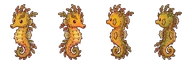
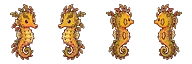
Scharfe Kartenbilder der seltenen Tiere, Herzregen pauschal, Storch aus der Kiste kommt zuverlässig, ohne Überraschungs-Flamingos
- Kisten-Karten: seltene Tiere als große Bilder aus den Vorlagen (tools/card-images.py), so scharf und groß wie die Symbole; Symbole auf den Karten größer
- Herzregen: sofort 100 Herzen statt 5 Minuten doppelte Herzen
- versprochener Storch/Ohrengeier: kommt nach wenigen Sekunden und landet; ein nur überfliegender Vogel wird nicht mehr zum seltenen
- der geschenkte Flamingo-Flug nach der Ankunft in einer Welt ist entfernt (es gibt die Geschenktafel im Tierpark)
- Fetzenfisch: Blickrichtung wie beim Seepferdchen, nachgeschärft (rare-static.py --scharf)

diff --git a/src/scenes/GardenScene.js b/src/scenes/GardenScene.js
@@ -131,7 +131,7 @@ import { VisitorCrowd } from '../visitors/Visitor.js';
 import { parkCap, AWAY_ICE_PER_VISITOR_MINUTE, AWAY_HEARTS_PER_VISITOR_MINUTE, BABY_APPEAL, BABY_BONUS, FULL_BONUS, HOUSE_VISITORS, appeal, maxVisitors, parkScore, splitHearts, penCount, isFull, releaseHearts } from '../world/visitors.js';
 import { EVENTS, babyFamily, babyPlan, eventState, eventsIn, formatTime, isActive, startEvent } from '../world/events.js';
 import { isEventsOpen, openEvents } from '../ui/eventsPanel.js';
-import LuckWorld from '../world/LuckWorld.js';
+import LuckWorld, { rarePromiseHere } from '../world/LuckWorld.js';
 import { CHARMS, MORE_ANIMALS, bonusActive, chestState, price } from '../world/luck.js';
 import { isCharmsOpen, openCharms } from '../ui/charms.js';
 import { isLuckPickerOpen } from '../ui/luckPicker.js';
@@ -479,10 +479,6 @@ const TUT_SHEEP = 2; // bei Mavis Schaf-Aufgabe grasen auf der Wiese immer so vi
 const TUT_SHEEP_R = 360; // ... so nah am Auto ...
 const TUT_SHEEP_CHECK = 2; // ... nachgeschaut wird alle paar Sekunden
 const PROMO_DELAY = 1200; // so lange nach der Ankunft im Tierpark, bis eine Tafel aufgeht (maybeShowPromo)
-// Überraschung (maybeSurprise): so lange nach der Ankunft in Wiese, Wald oder Savanne fliegen gratis Flamingos ein,
-// höchstens so oft
-const SURPRISE_DELAY = 60 * 1000;
-const SURPRISE_EVERY = 30 * 60 * 1000;
 let lastBookTab = 'animals'; // zuletzt offener Reiter im Tierbuch
 const QUEST_FOLD_KEY = 'my-little-zoo-quest-folded'; // Aufgaben-Karte eingeklappt (nur in diesem Browser)
 const AQUARIUM_TOUR = { tx: 3, ty: 16 }; // Ankunft vor der Aquariumtür (park2), wenn Mavi das Aquarium zeigt
@@ -513,6 +509,7 @@ const BALL_ROLL = [56, 44, 32]; // so weit rollt der Ball auf den Tiger zu (der 
 const BALL_KEEP = 20000; // so lange bleibt der Ball liegen, wenn der Tiger nicht mehr spielt (Millisekunden)
 const MAX_MACAQUES = 6; // so viele Japanmakaken baden höchstens in den wilden Quellen (sie verteilen sich)
 const FLAMINGO_EVERY = [6, 12]; // Sekunden zwischen zwei Flamingos (Reiher: 50–110)
+const PROMISE_WAIT = 6; // so lange (höchstens) bis der versprochene Storch bzw. Ohrengeier aus der Kiste heranfliegt
 const FLAMINGO_LAND = 0.6; // so oft landen sie (am Wasser)
 const RIDES = { meadow: 'ride_meadow', forest: 'ride_forest', savanna: 'ride_savanna', asia: 'ride_asia', jungle: 'ride_jungle', reef: 'ride_reef' }; // Dschungel: Maultier, Riff: Seabob
 // Die Welten draußen (für das Tierbuch und das Regal: wo es welche Tiere gibt)
@@ -1235,7 +1232,6 @@ export default class GardenScene extends Phaser.Scene {
     if (data.level) cam.fadeIn(300); // nach einem Levelwechsel sanft einblenden
     hideLoading(); // fertig aufgebaut (siehe showLoading beim Starten, Gebietswechsel und Ausbau)
     sessionLoaded(); // für die Statistik: Ladezeit (nur beim ersten Gebiet der Runde)
-    if (FLAMINGO_WORLDS.includes(LEVEL_ID)) this.time.delayedCall(SURPRISE_DELAY, () => this.maybeSurprise());
     if (data.fromWorld) {
       game.parkReturns++;
       this.time.delayedCall(PROMO_DELAY, () => this.maybeShowPromo());
@@ -2205,14 +2201,18 @@ export default class GardenScene extends Phaser.Scene {
       }
     }
     // Trockenzeit: ab und zu kreist ein Geier heran und landet auf einer kahlen Akazie
+    // ein versprochenes seltenes Tier aus der Kiste (Storch, Ohrengeier) lässt nicht lange auf sich warten
+    const promised = rarePromiseHere()?.species;
     if (LEVEL.vultures) {
       this.vultureTimer = (this.vultureTimer ?? Phaser.Math.FloatBetween(4, LEVEL.vultures.every[0])) - dt;
+      if (promised === 'vulture') this.vultureTimer = Math.min(this.vultureTimer, PROMISE_WAIT);
       if (this.vultureTimer <= 0) {
         this.vultureTimer = Phaser.Math.FloatBetween(...LEVEL.vultures.every);
         this.flyInVulture();
       }
     }
     this.heronTimer -= dt;
+    if (promised === 'heron') this.heronTimer = Math.min(this.heronTimer, PROMISE_WAIT);
     if (this.heronTimer > 0) return;
     const { every, landChance } = LEVEL.herons;
     this.heronTimer = Phaser.Math.FloatBetween(...every);
@@ -2223,7 +2223,8 @@ export default class GardenScene extends Phaser.Scene {
   flyIn(species, landChance) {
     const angle = Math.random() * Math.PI * 2;
     const from = this.mapEdgePoint(angle);
-    const land = Math.random() < landChance && NEAR_WATER.length > 0;
+    // der versprochene seltene Vogel aus der Kiste landet immer (sonst flöge er nur über die Karte)
+    const land = (rarePromiseHere()?.species === species || Math.random() < landChance) && NEAR_WATER.length > 0;
     let to;
     if (land) {
       const t = Phaser.Utils.Array.GetRandom(NEAR_WATER);
@@ -2982,7 +2983,6 @@ export default class GardenScene extends Phaser.Scene {
   // Bewunderungsherzen der Besucher aufs Konto; der Zähler oben hüpft kurz
   // source: Tierart (oder 'icecream') für die Statistik in der Übersicht; ohne Quelle (Cheat) zählt es dort nicht
   addHearts(n, source = null) {
-    if (n > 0 && bonusActive('heartRain')) n *= 2; // Bonus "Herzregen" aus einer Kiste
     game.hearts += n;
     if (source) game.heartsBy[source] = (game.heartsBy[source] ?? 0) + n;
     this.updateHud();
@@ -5056,18 +5056,6 @@ export default class GardenScene extends Phaser.Scene {
       },
       () => this.scene.resume(),
     );
-  }
-
-  // Überraschung: ab und zu fliegen in Wiese, Wald und Savanne gratis Flamingos ein (das Event Flamingo-Flug), damit
-  // man Events nebenbei entdeckt. Erst nach dem Tutorial, nur wenn der Flamingo-Flug gerade startbar ist
-  maybeSurprise() {
-    if (this.leaving || !storyAt('upgrade') || !groupsLoaded(EVENT_GROUPS.flamingo) || eventState('flamingo').state !== 'ready') return;
-    if (Date.now() - (game.surpriseAt ?? 0) < SURPRISE_EVERY) return;
-    game.surpriseAt = Date.now();
-    startEvent('flamingo', Date.now(), true);
-    countPromo('surprise');
-    this.updateEventBanner();
-    this.showToast(tr('🦩 Überraschung! Ein Flamingo-Schwarm zieht 5 Minuten lang vorbei – fang einen für deinen Tierpark! Weitere Events startest du am Computer im Haupthaus.', '🦩 Surprise! A flock of flamingos is passing by for 5 minutes – catch one for your zoo! You can start more events at the computer in the main building.'));
   }
 
   // Spielstand speichern (Autosave, Menü). Während eines Levelwechsels nicht: der ist dann schon gespeichert.

diff --git a/src/world/LuckWorld.js b/src/world/LuckWorld.js
@@ -13,8 +13,8 @@ import { openLuckPicker } from '../ui/luckPicker.js';
 import { EVENT_GROUPS, groupsLoaded } from '../scenes/BootScene.js';
 import { GHOST_ALPHA, GHOST_DEPTH, isCovered, outlineTexture } from './Boat.js';
 import {
-  BONI, CHARMS, CHEST_COUNT, CHEST_LEVELS, LEVEL_EVENT, TIERS,
-  activeBoni, bonusActive, campfireLeft, cardCount, chestOpened, chestState, dropBoniElsewhere, giveCharm, hasCharm,
+  BONI, CHARMS, CHEST_COUNT, CHEST_LEVELS, HEART_RAIN, LEVEL_EVENT, TIERS,
+  activeBoni, bonusActive, campfireLeft, cardCount, chestOpened, chestState, dropBoniElsewhere, giveCharm, hasCharm, iconImg,
   luckState, ownsCharm, rerollCost, rollCards, startBonus,
 } from './luck.js';
 
@@ -41,6 +41,14 @@ const CALLED = {
   iguana: { when: (l) => l.waterfallSun, at: (l) => box(l.waterfallSun), hint: tr('Sonnt sich bald am Wasserfall!', 'Will soon be sunbathing at the waterfall!') },
   gorilla: { when: (l) => l.gorillas, at: (l) => box(l.gorillas), hint: tr('Kommt bald auf die Lichtung!', 'Will soon come to the clearing!') },
 };
+// seltene Varianten mit großem Kartenbild public/assets/card_<skin>.png (tools/card-images.py): auf der Karte so scharf
+// wie die Glücksbringer-Bilder (die Spiel-Sprites wären dort 3- bis 4-fach vergrößert)
+const CARD_SKINS = new Set([
+  'cat2', 'stag', 'antelope2', 'croc_albino', 'tiger2', 'peacock2', 'orangutan2', 'frog2', 'jellyfish2', 'wolf2', 'lion2',
+  'iguana2', 'panther', 'macaw2', 'snake2', 'tarantula2', 'ray2', 'gibbon', 'octopus2', 'sheep2', 'heron2', 'fox2',
+  'squirrel2', 'beaver2', 'macaque2', 'anteater2', 'meerkat2', 'vulture2', 'gorilla2', 'hyena2', 'hippo2', 'panda2',
+  'penguin2', 'seal2', 'seahorse2', 'toucan2', 'turtle2', 'warthog2',
+]);
 const CALLED_SHARE = 0.1; // so oft kommt ihre Karte (wie eine seltene Art im Spawn-Pool)
 
 // Versprechen für dieses Gebiet (seltenes Tier aus der Kiste, das erst noch kommen muss), oder null
@@ -165,14 +173,17 @@ export default class Luck {
     if (c.kind === 'rare') {
       const info = skinInfo(c.species, c.skin);
       const tier = TIERS[c.tier];
-      // eigenes Bild der seltenen Variante (z. B. Hirsch statt Reh); Platzhalter: das Bild der Art, eingefärbt wie im Spiel
-      const pic = info?.css ? `<span style="filter:${info.css}">${safeIcon(c.species)}</span>` : safeIcon(c.skin, c.species);
+      // großes Kartenbild der seltenen Variante (tools/card-images.py); sonst das Spielbild (z. B. Schoko-Giraffe),
+      // Platzhalter: das Bild der Art, eingefärbt wie im Spiel
+      const pic = CARD_SKINS.has(c.skin)
+        ? iconImg(`card_${c.skin}`).replace('class="luck-img"', 'class="luck-img luck-animal"')
+        : info?.css ? `<span style="filter:${info.css}">${safeIcon(c.species)}</span>` : safeIcon(c.skin, c.species);
       return { icon: `${pic}<span class="luck-spark">✨</span>`, title: capital(info?.name ?? c.species), text: tr('Taucht garantiert hier im Gebiet auf!', 'Guaranteed to show up in this area!'), color: tier.color, tag: tier.name };
     }
     if (c.kind === 'bonus') {
       const b = BONI[c.id];
       const minutes = hasCharm('hourglass') ? 8 : 5;
-      return { icon: b.icon, title: b.name, text: b.text, color: CARD_COLOR.bonus, tag: c.id === 'eventCall' ? tr('sofort', 'right now') : tr(`${minutes} Minuten`, `${minutes} minutes`) };
+      return { icon: b.icon, title: b.name, text: b.text, color: CARD_COLOR.bonus, tag: b.instant ? tr('sofort', 'right now') : tr(`${minutes} Minuten`, `${minutes} minutes`) };
     }
     const ch = CHARMS[c.id];
     return { icon: ch.icon, title: ch.name, text: ch.text, color: CARD_COLOR.charm, tag: tr('Glücksbringer', 'Lucky charm') };
@@ -202,7 +213,8 @@ export default class Luck {
     const p = s.player;
     if (CALLED[species]) {
       // ist gerade eins da, wird es selten; sonst das nächste, das kommt
-      const wild = s.animals.find((a) => a.species === species && a.state === 'wild' && !a.skin);
+      // (keinen Vogel, der nur über die Karte fliegt oder schon wieder abfliegt: der wäre gleich weg)
+      const wild = s.animals.find((a) => a.species === species && a.state === 'wild' && !a.skin && a.land !== false && a.phase !== 'leaving');
       if (wild) {
         wild.skin = skin;
         wild.life = Math.max(wild.life ?? 0, RARE_LIFE);
@@ -247,6 +259,12 @@ export default class Luck {
       const groups = EVENT_GROUPS[ev] ?? [];
       if (!groupsLoaded(groups)) s.afterGroupsLoaded(groups, go);
       else go();
+      return;
+    }
+    if (id === 'heartRain') {
+      s.addHearts(HEART_RAIN);
+      s.showToast(`${b.icon} <b>${b.name}!</b> ${tr(`<span class="heart">♥</span> ${HEART_RAIN} für dich.`, `<span class="heart">♥</span> ${HEART_RAIN} for you.`)}`);
+      s.updateHud();
       return;
     }
     startBonus(id);

diff --git a/src/world/luck.js b/src/world/luck.js
@@ -30,9 +30,11 @@ export const BONI = {
   toolsEverywhere: { name: tr('Werkzeug überall', 'Tools Everywhere'), text: tr('Werkzeug wechseln, wo du willst (Q bzw. Werkzeug-Knopf).', 'Switch tools anywhere (Q or the tool button).') },
   stands: { name: tr('2 Hochstände', '2 Lookouts'), text: tr('Zwei Hochstände – von oben siehst du alles.', 'Two lookouts – see everything from above.'), available: (l) => l !== 'reef' },
   bigCatch: { name: tr('Großes Lasso', 'Big Lasso'), text: tr('Lasso und Kescher fangen viel größer – das Lasso 2 Tiere auf einmal.', 'Lasso and net catch much wider – the lasso 2 animals at once.') },
-  heartRain: { name: tr('Herzregen', 'Heart Rain'), text: tr('Doppelte Herzen.', 'Double hearts.') },
-  eventCall: { name: tr('Event-Ruf', 'Event Call'), text: tr('Das Event dieses Gebiets startet sofort – gratis.', 'This area’s event starts right away – for free.'), available: (l) => !!LEVEL_EVENT[l] },
+  // instant: wirkt sofort einmal (kein 5-Minuten-Bonus)
+  heartRain: { name: tr('Herzregen', 'Heart Rain'), text: tr('Sofort 100 Herzen.', '100 hearts right away.'), instant: true }, // 100: HEART_RAIN
+  eventCall: { name: tr('Event-Ruf', 'Event Call'), text: tr('Das Event dieses Gebiets startet sofort – gratis.', 'This area’s event starts right away – for free.'), available: (l) => !!LEVEL_EVENT[l], instant: true },
 };
+export const HEART_RAIN = 100; // so viele Herzen bringt der Herzregen (pauschal, unabhängig davon, wie lange man im Gebiet bleibt)
 for (const b of Object.values(BONI)) b.icon = iconImg('boost');
 const BONUS_MS = 5 * MINUTE;
 const HOURGLASS_MS = 8 * MINUTE;

diff --git a/index.html b/index.html
@@ -642,6 +642,10 @@
       /* Bilder der Glücksbringer und Boni (src/world/luck.js iconImg): so groß wie ein Emoji an derselben Stelle */
       .luck-img { height: 1.2em; width: auto; max-width: 1.4em; object-fit: contain; vertical-align: -0.25em; pointer-events: none; }
       .charm-ghost .luck-img { height: 1em; max-width: 1.2em; }
+      /* auf den Kisten-Karten etwa so groß wie das Tierbild der seltenen Tiere (3em, mit Rand im Bild) */
+      .luck-card .luck-img { height: 2.4em; max-width: 2.6em; }
+      /* Kartenbild eines seltenen Tiers (eng zugeschnitten, ohne Rand): so hoch wie die Symbole, breite Tiere dürfen breiter sein */
+      .luck-card .luck-img.luck-animal { max-width: 3.2em; }
       @media (max-width: 900px), (max-height: 500px) {
         .luck-box .luck-cards { grid-template-columns: repeat(var(--n, 3), minmax(0, 130px)); gap: 8px; }
         .luck-card { min-height: 0; padding: 6px 5px; } .luck-card b { font-size: 14px; } .luck-card small { font-size: 12px; }

diff --git a/src/state.js b/src/state.js
@@ -27,7 +27,6 @@ export const game = {
   tipsSeen: [], // Tierarten, zu denen der Fang-Tipp nach Fehlversuchen schon von selbst kam
   parkReturns: 0, // so oft ist man aus einer Welt zurück in den Tierpark gekommen (für die Tafeln in promos)
   promos: [], // schon gezeigte Tafeln im Tierpark: 'gift' (geschenktes Event); 'worlds' (die anderen Welten) nur in älteren Spielständen
-  surpriseAt: 0, // wann zuletzt ein Überraschungs-Flamingo-Flug kam (siehe maybeSurprise in GardenScene)
   bookNew: [], // Neues im Tierbuch (roter Punkt am Knopf, leuchtet beim Öffnen auf): 'caught:fox', 'seen:fox', 'quest:sheep'
   chests: {}, // Kisten je Welt: { meadow: { spots: [{ tx, ty }], readyAt } } (siehe src/world/luck.js)
   charms: { owned: [], equipped: [] }, // Glücksbringer: gefundene und angelegte (höchstens 2)
@@ -69,5 +68,4 @@ export function resetGame() {
   game.bookNew = [];
   game.parkReturns = 0;
   game.promos = [];
-  game.surpriseAt = 0;
 }

diff --git a/src/sessions.js b/src/sessions.js
@@ -69,8 +69,8 @@ export function countEvent(id) {
   if (session) count(session.events, id);
 }
 
-// Tafeln im Tierpark: 'gift' gezeigt, 'giftbabies'/'giftride' gewählt; 'worlds' gezeigt, 'worldsmap' bis zum Ende durchgeblättert;
-// 'surprise': Überraschungs-Flamingos in einer Welt
+// Tafeln im Tierpark: 'gift' gezeigt, 'giftbabies'/'giftride' gewählt; 'worlds' gezeigt, 'worldsmap' bis zum Ende durchgeblättert
+// (früher auch 'surprise': Überraschungs-Flamingos in einer Welt, gibt es nicht mehr)
 export function countPromo(id) {
   if (session) count(session.promos, id);
 }

diff --git a/tools/card-images.py b/tools/card-images.py
@@ -1,0 +1,63 @@
+"""Bilder der seltenen Tiere für die Kisten-Karten: die Vorderansicht aus der großen Vorlage, freigestellt und auf
+SIZE Pixel verkleinert (public/assets/card_<skin>.png). Die Spiel-Sprites sind dafür zu klein (auf der Karte 3- bis
+4-fach vergrößert, unscharf neben den Glücksbringer-Bildern).
+Aufruf: python tools/card-images.py <Ordner mit freigestellten Ansichten>   (danach python tools/make-webp.py .)
+Die Ansichten (Name_v0.png ...) entstehen mit tools/cutout-views.py ... alle (siehe tools/rare-static.py); Vorlagen, die
+schon freigestellt sind (PNG mit Transparenz), nimmt das Skript direkt: dort die Ansicht oben links.
+Neue Kartenbilder auch in CARD_SKINS in src/world/LuckWorld.js eintragen."""
+import sys
+import numpy as np
+from PIL import Image, ImageDraw, ImageFilter
+
+SIZE = 176
+V = sys.argv[1]
+
+# Skin: 'view:<Datei im Ansichten-Ordner ohne .png>' oder 'png:<freigestellte Vorlage in Sprites/>'
+CARDS = {
+    'cat2': 'png:Katze2 neu.png', 'stag': 'png:Hirsch.png', 'antelope2': 'png:Antilope2.png', 'croc_albino': 'png:Krokodil2.png',
+    'tiger2': 'png:Tiger2.png', 'peacock2': 'png:Pfau2.png', 'orangutan2': 'png:Orang Utan2.png', 'frog2': 'png:Frosch2.png',
+    'jellyfish2': 'png:Qualle2.png', 'wolf2': 'png:Wolf2.png', 'lion2': 'png:Löwe2.png', 'iguana2': 'png:Leguan2.png',
+    'panther': 'png:Jaguar2.png', 'macaw2': 'png:Ara2.png', 'snake2': 'png:Schlange2.png', 'tarantula2': 'png:Vogelspinne2.png',
+    'ray2': 'png:Rochen2.png', 'gibbon': 'png:Gibbon.png', 'octopus2': 'png:Krake2.png',
+    'sheep2': 'view:sheep2_v0', 'heron2': 'view:heron2_v0', 'fox2': 'view:fox2_v0', 'squirrel2': 'view:squirrel2_v0',
+    'beaver2': 'view:beaver2_v0', 'macaque2': 'view:macaque2_v0',
+    'anteater2': 'view:anteater2_v0', 'meerkat2': 'view:meerkat2_v0', 'vulture2': 'view:vulture2_norock_v0',
+    'gorilla2': 'view:gorilla2_v0', 'hyena2': 'view:hyena2_v0', 'hippo2': 'view:hippo2_v0', 'panda2': 'view:panda2_v0',
+    'penguin2': 'view:penguin2_v0', 'seal2': 'view:seal2_v0', 'seahorse2': 'view:seahorse2_v1', 'toucan2': 'view:toucan2_v0',
+    'turtle2': 'view:turtle2_v0', 'warthog2': 'view:warthog2_v0',
+}
+
+
+def first_view(path):
+    """aus einer freigestellten Vorlage mit mehreren Ansichten die oben links (große Teile, kleine Krümel weg)"""
+    im = Image.open(path).convert('RGBA')
+    solid = Image.fromarray(((np.array(im)[..., 3] > 128) * 255).astype(np.uint8)).filter(ImageFilter.MinFilter(5)).filter(ImageFilter.MaxFilter(5)).copy()
+    arr = np.array(solid)
+    parts, n = [], 1
+    while n < 250:
+        ys, xs = np.where(arr == 255)
+        if not len(xs): break
+        ImageDraw.floodfill(solid, (int(xs[0]), int(ys[0])), n)
+        arr = np.array(solid)
+        m = arr == n
+        ys, xs = np.where(m)
+        parts.append((m.sum(), xs.mean(), ys.mean(), m))
+        n += 1
+    big = max(p[0] for p in parts)
+    views = [p for p in parts if p[0] >= big * 0.25]
+    _, _, _, mask = min(views, key=lambda p: p[1] + p[2])  # oben links
+    keep = np.array(Image.fromarray((mask * 255).astype(np.uint8)).filter(ImageFilter.MaxFilter(9))) > 0
+    a = np.array(im)
+    a[~keep, 3] = 0
+    out = Image.fromarray(a, 'RGBA')
+    return out.crop(out.getchannel('A').getbbox())
+
+
+for skin, src in CARDS.items():
+    kind, name = src.split(':', 1)
+    img = first_view(f'Sprites/{name}') if kind == 'png' else Image.open(f'{V}/{name}.png').convert('RGBA')
+    img = img.crop(img.getchannel('A').getbbox())
+    k = SIZE / max(img.size)
+    img = img.resize((max(1, round(img.width * k)), max(1, round(img.height * k))), Image.LANCZOS)
+    img.save(f'public/assets/card_{skin}.png')
+    print(f'card_{skin}.png', img.size)

diff --git a/tools/rare-static.py b/tools/rare-static.py
@@ -22,8 +22,12 @@ fox2_sleep: aus fox_sleep umgefärbt (tools/rare-static.py --fox-sleep); beaver2
 gespiegelten Nutria-Vorderansicht (SCALE 0.115)."""
 import sys
 import numpy as np
-from PIL import Image, ImageOps
+from PIL import Image, ImageFilter, ImageOps
 
+# --scharf (vor allen anderen Angaben): nach dem Verkleinern nachschärfen, für feine Vorlagen in kleinen Bildern
+# (Fetzenfisch, 48 x 64), die sonst neben der Pixel-Art der Grundart verschwommen wirken
+SHARP = sys.argv[1] == '--scharf'
+if SHARP: del sys.argv[1]
 if sys.argv[1] == '--fox-sleep':
     # Silberfuchs schläft: rotes und oranges Fell des schlafenden Fuchses dunkelgrau (Helligkeitsverlauf bleibt)
     im = np.array(Image.open('public/assets/fox_sleep.png').convert('RGBA')).astype(float)
@@ -47,6 +51,12 @@ for i, s in enumerate(srcs):
     th, bottom = ys.max() - ys.min() + 1, ys.max() + 1
     k = min(th / v.height, (FW - 2) / v.width)  # so hoch wie das Original, höchstens so breit wie der Rahmen
     w, h = max(1, round(v.width * k)), max(1, round(v.height * k))
-    res.alpha_composite(v.resize((w, h), Image.LANCZOS), (i * FW + round((FW - w) / 2), bottom - h))
+    small = v.resize((w, h), Image.LANCZOS)
+    if SHARP:
+        # Farben nachschärfen (Alpha bleibt), halbdurchsichtige Randpixel kräftiger: klarere Umrisse wie Pixel-Art
+        rgb = small.convert('RGB').filter(ImageFilter.UnsharpMask(radius=0.8, percent=80, threshold=2))
+        alpha = small.getchannel('A').point(lambda x: 0 if x < 50 else min(255, round(x * 1.2)))
+        small = Image.merge('RGBA', (*rgb.split(), alpha))
+    res.alpha_composite(small, (i * FW + round((FW - w) / 2), bottom - h))
 res.save(out)
 print(out, 'fertig')
